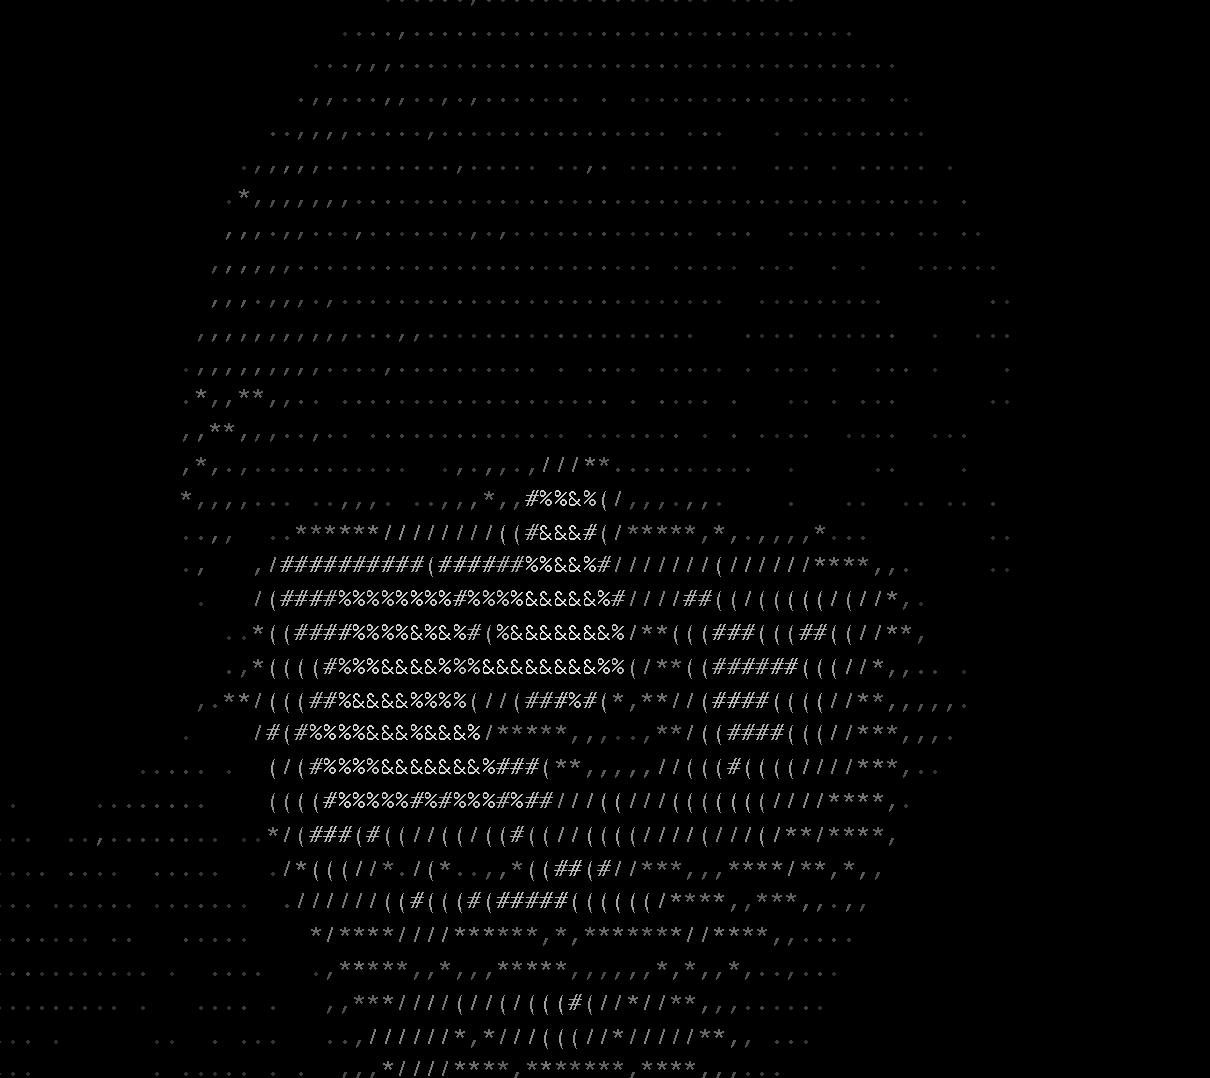
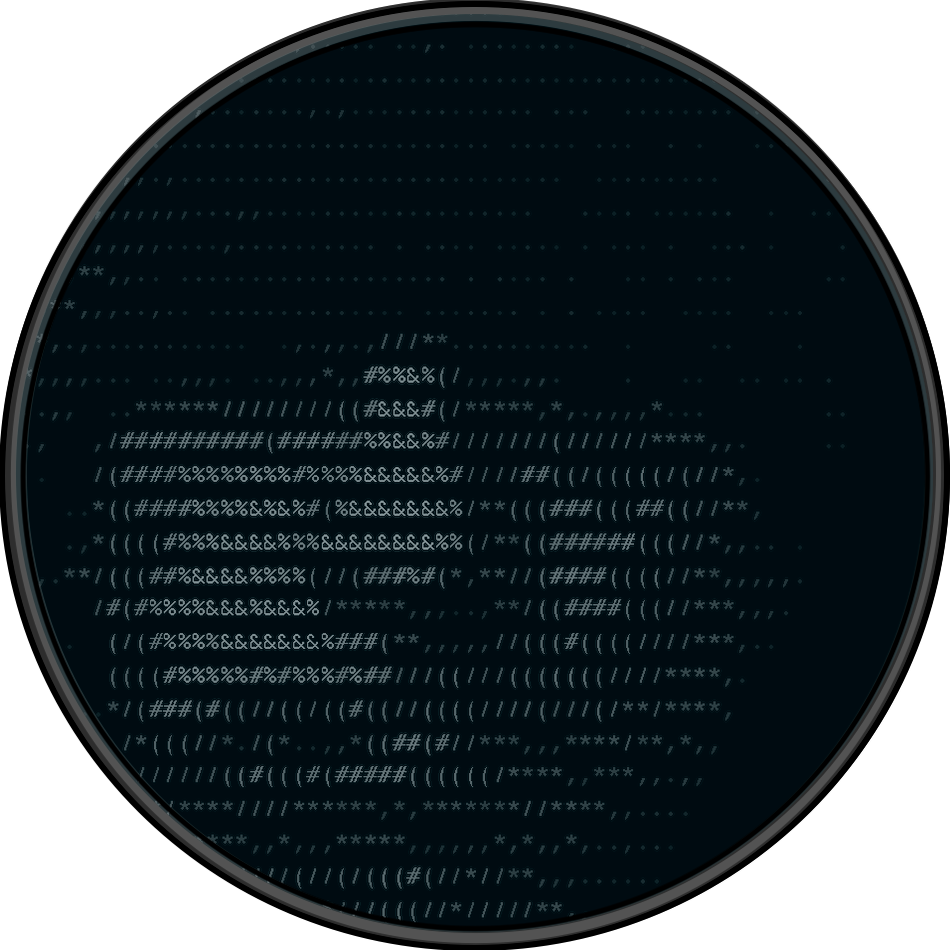
style.css

diff --git a/index.html b/index.html
@@ -5,11 +5,13 @@
 <head>
 
     <meta charset="UTF-8">
+    <link href="favicon.ico" rel="icon" sizes="16x16" type="image/gif">
 
     <title>WebRTC App</title>
-    <link href="https://fonts.googleapis.com/icon?family=Material+Icons" rel="stylesheet">
+<!--    <link href="https://fonts.googleapis.com/icon?family=Material+Icons" rel="stylesheet">-->
     <link rel="stylesheet" href="assets/css/materialize.min.css">
     <link rel="stylesheet" href="assets/css/style.css">
+    <link rel="stylesheet" href="/assets/css/backdrop.css">
 
     <script src="https://code.jquery.com/jquery-3.5.1.min.js" defer></script>
     <style>
@@ -22,8 +24,14 @@
 </head>
 
 <body>
-    <div class="main-wrap">
-        <div class="call-wrap card" style="z-index: 99">
+<div class="blur">
+    <img src="assets/images/bg.jpg" style=" min-width:100vw; min-height:100vh;">
+
+</div>
+<div class="row">
+    <div class="column">
+        <div class="shade call-wrap card" style="z-index: 99">
+
             <video id="local-video" autoplay></video>
             <div class="row remote-video-wrap" style="position: relative;">
                 <div class="call-hang-status" style="position: absolute; z-index:999">
@@ -31,36 +39,40 @@
                 </div>
                 <video id="remote-video" autoplay></video>
             </div>
-            <div class="record-action">
-                <button id="start-recording" class="btn btn-small waves-effect red" disabled>Start Recording</button>
-                <button id="download-video" class="btn btn-small waves-effect teal" disabled> Download Video</button>
+            <div class=" record-action">
+                <button id="start-recording" class="shade btn btn-small waves-effect red" disabled>Record</button>
+                <button id="download-video" class="shade btn btn-small waves-effect black" disabled>Download</button>
             </div>
             <div class="row">
                 <div class="col m12">
                     <label for="username-input"></label><input type="text" name="" id="username-input" placeholder="Username">
-                    <button id="call-btn" class="btn waves-effect"> Call</button>
+                    <button id="call-btn" class="shade btn waves-effect black"> Call</button>
                 </div>
             </div>
         </div>
-        <div class="chat-wrap card">
+    </div>
+    <div class="column">
+        <div class="shade chat-wrap card">
             <div class="row">
-                <div class="col m12 white">
+                <div class="col  m12 black">
                     <div class="card-title">Text Chat</div>
-                    <div id="chat-area" style="display: flex;flex-direction: column;width: 100%;overflow-y: scroll;"></div>
+                    <div id="chat-area"  ></div>
                 </div>
             </div>
             <div class="row">
                 <div class="col m12">
                     <label for="msg-input"></label><input type="text" placeholder="Message" name="" id="msg-input">
-                    <button id="msg-sent-btn" class="btn waves-effect">Send</button>
+                    <button id="msg-sent-btn" class="shade btn waves-effect black">Send</button>
                 </div>
             </div>
         </div>
     </div>
+</div>
 
     <script src="https://code.jquery.com/jquery-3.5.1.min.js"></script>
     <script src="assets/js/materialize.min.js"></script>
     <script src="assets/js/client.js"></script>
+
 </body>
 
 </html>

diff --git a/assets/css/style.css b/assets/css/style.css
@@ -1,44 +1,60 @@
-body {
-    background-image: url(../images/bg.jpg);
-    opacity: 0.8;
-    background-size: cover;
-}
+
 
 .main-wrap {
     display: flex;
     justify-content: center;
     align-items: flex-end;
 }
+.webrtc-login, .card {
+    border-radius: 18px;
+    margin: 20px;
+}
+body {
+    /*background-image: url(../images/bg.jpg);*/
+    /*opacity: 0.8;*/
+    /*background-repeat: no-repeat;*/
+    /*background-size: cover;*/
+    margin: 0;
+    padding: 0;
+    height: 100vh;
+}
 
 video {
-    background: black;
-    border: 1px solid gray;
+    border: 8px solid rgba(50,50,50,0.7);
+    border-radius: 16px;
+    box-shadow: inset 1px 1px 15px black;
+    /*margin: 10px;*/
 }
 
 .call-wrap {
     position: relative;
     display: block;
-    padding: 10px;
+    width: 45vw;
+    height: 45vw;
 }
 
 #local-video {
-    width: 100px;
-    height: 100px;
+    width: 12vw;
+    height: 12vw;
     position: absolute;
     top: 15px;
     right: 15px;
     z-index: 9;
+    margin: 1px;
+    border: 1px solid ghostwhite;
 }
 
 #remote-video {
-    width: 500px;
-    height: 500px;
+    background-repeat: no-repeat;
+    background-size: cover;
+    width: 45vw;
+    height: 45vw;
 }
 
 .chat-wrap {
-    display: block;
-    width: 400px;
-    margin-left: 15px;
+    display: -ms-inline-flexbox;
+    width: 40vw;
+    margin-left: 5px;
     padding: 10px;
     max-height: 500px;
     overflow-y: scroll;
@@ -47,7 +63,7 @@ video {
 .call-hang-status {
     position: absolute;
     z-index: 999;
-    height: 97%;
+    height: 55vw;
     width: 100%;
 }
 
@@ -56,7 +72,7 @@ video {
     flex-direction: column;
     align-items: center;
     justify-content: center;
-    height: 100%;
+    height: 74%;
     z-index: 9;
 }
 
@@ -130,4 +146,74 @@ video {
     border-radius: 50%;
     padding: 8px;
     cursor: pointer;
+}
+button {
+    border-radius: 8px;
+}
+.shade {
+    box-shadow:
+            3px 3px 8px rgba(0,0,0,0.5),
+            4px 4px 18px rgba(0,0,0,0.8),
+            5px 5px 38px rgba(0,0,0,0.8);
+}
+/*
+
+
+
+
+KEEP EM...YOU KNOW...SEPERATED?
+
+
+
+
+*/
+
+/* Create two equal columns that floats next to each other */
+.column {
+    float: left;
+    padding: 10px;
+}
+
+/* Clear floats after the columns */
+.row:after {
+    content: "";
+    display: table;
+    clear: both;
+}
+
+/* Responsive layout - makes the two columns stack on top of each other instead of next to each other */
+@media screen and (max-width: 600px) {
+    .column {
+        width: 100vw;
+        height: 100vh;
+    }
+    #remote-video {
+        background-image: url("../images/me.png");
+        background-repeat: no-repeat;
+        background-size: cover;
+        width: 80vw;
+        height: 80vw;
+    }
+    .call-wrap {
+        position: relative;
+        display: block;
+        border-radius: 15px;
+        width: 80vw;
+        height: 80vw;
+    }
+    .calling-status-wrap {
+        display: flex;
+        flex-direction: column;
+        align-items: center;
+        justify-content: center;
+        height: 74%;
+        z-index: 9;
+    }
+    .chat-wrap {
+        display: -ms-inline-flexbox;
+        width: 90vw;
+        margin-left: 5px;
+        padding: 10px;
+        max-height: 500px;
+    }
 }

diff --git a/server.js b/server.js
@@ -5,13 +5,13 @@ var wss = new webSocketServ({
     port: 9090
 })
 
-var users = {};
-var otherUser;
+const users = {};
+const otherUser;
 wss.on('connection', function (conn) {
     console.log("User connected");
 
     conn.on('message', function (message) {
-        var data;
+        const data;
 
         try {
             data = JSON.parse(message);
@@ -41,7 +41,7 @@ wss.on('connection', function (conn) {
                 break;
             case "offer":
 
-                var connect = users[data.name];
+                const connect = users[data.name];
                 if (connect != null) {
                     conn.otherUser = data.name;
 
@@ -69,7 +69,7 @@ wss.on('connection', function (conn) {
 
             case "candidate":
 
-                var connect = users[data.name];
+                const connect = users[data.name];
 
                 if (connect != null) {
                     sendToOtherUser(connect, {
@@ -80,7 +80,7 @@ wss.on('connection', function (conn) {
                 break;
             case "reject":
 
-                var connect = users[data.name];
+                const connect = users[data.name];
 
                 if (connect != null) {
                     sendToOtherUser(connect, {
@@ -91,7 +91,7 @@ wss.on('connection', function (conn) {
                 break;
             case "accept":
 
-                var connect = users[data.name];
+                const connect = users[data.name];
 
                 if (connect != null) {
                     sendToOtherUser(connect, {
@@ -101,7 +101,7 @@ wss.on('connection', function (conn) {
                 }
                 break;
             case "leave":
-                var connect = users[data.name];
+                const connect = users[data.name];
                 connect.otherUser = null;
 
                 if (connect != null) {

diff --git a/login.html b/login.html
@@ -5,15 +5,19 @@
     <meta charset="UTF-8">
     <title>WebRtc app</title>
     <link rel="stylesheet" href="https://cdnjs.cloudflare.com/ajax/libs/materialize/1.0.0/css/materialize.min.css">
-
+    <link rel="stylesheet" href="assets/css/style.css">
+    <link rel="stylesheet" href="/assets/css/backdrop.css">
 </head>
 
 <body>
+<div class="blur">
+    <img src="assets/images/bg.jpg" style=" min-width:100vw; min-height:100vh;">
+</div>
     <div class="login-wrap">
         <div class="row">
             <div class="col s12 m8 l4 offset-m2 offset-l4">
                 <div class="card">
-                    <div class="card-action teal lighten-1 white-text">
+                    <div class="card-action black lighten-1 white-text">
                         <h3>Login Form</h3>
                     </div>
                     <div class="card-content">
@@ -23,7 +27,7 @@
                         </div>
                         <br>
                         <div class="form-field">
-                            <button class="webrtc-login btn-large waves-effect waves-dark">
+                            <button class="webrtc-login black btn-large waves-effect waves-dark">
                                 Login
                             </button>
                         </div>

diff --git a/assets/css/backdrop.css b/assets/css/backdrop.css
@@ -1,0 +1,17 @@
+.blur {
+    -webkit-filter: blur(45px); /* Safari 6.0 - 9.0 */
+    background-image: url(../images/bg.jpg);
+
+    filter: blur(8px);
+    /*border: 6px dashed yellow;*/
+    opacity: 0.58;
+
+    display: block;
+    position: fixed;
+    padding: 0;
+    width:100vw;
+    height: 100vh;
+    margin: 0;
+    margin-bottom: 0;
+
+}
